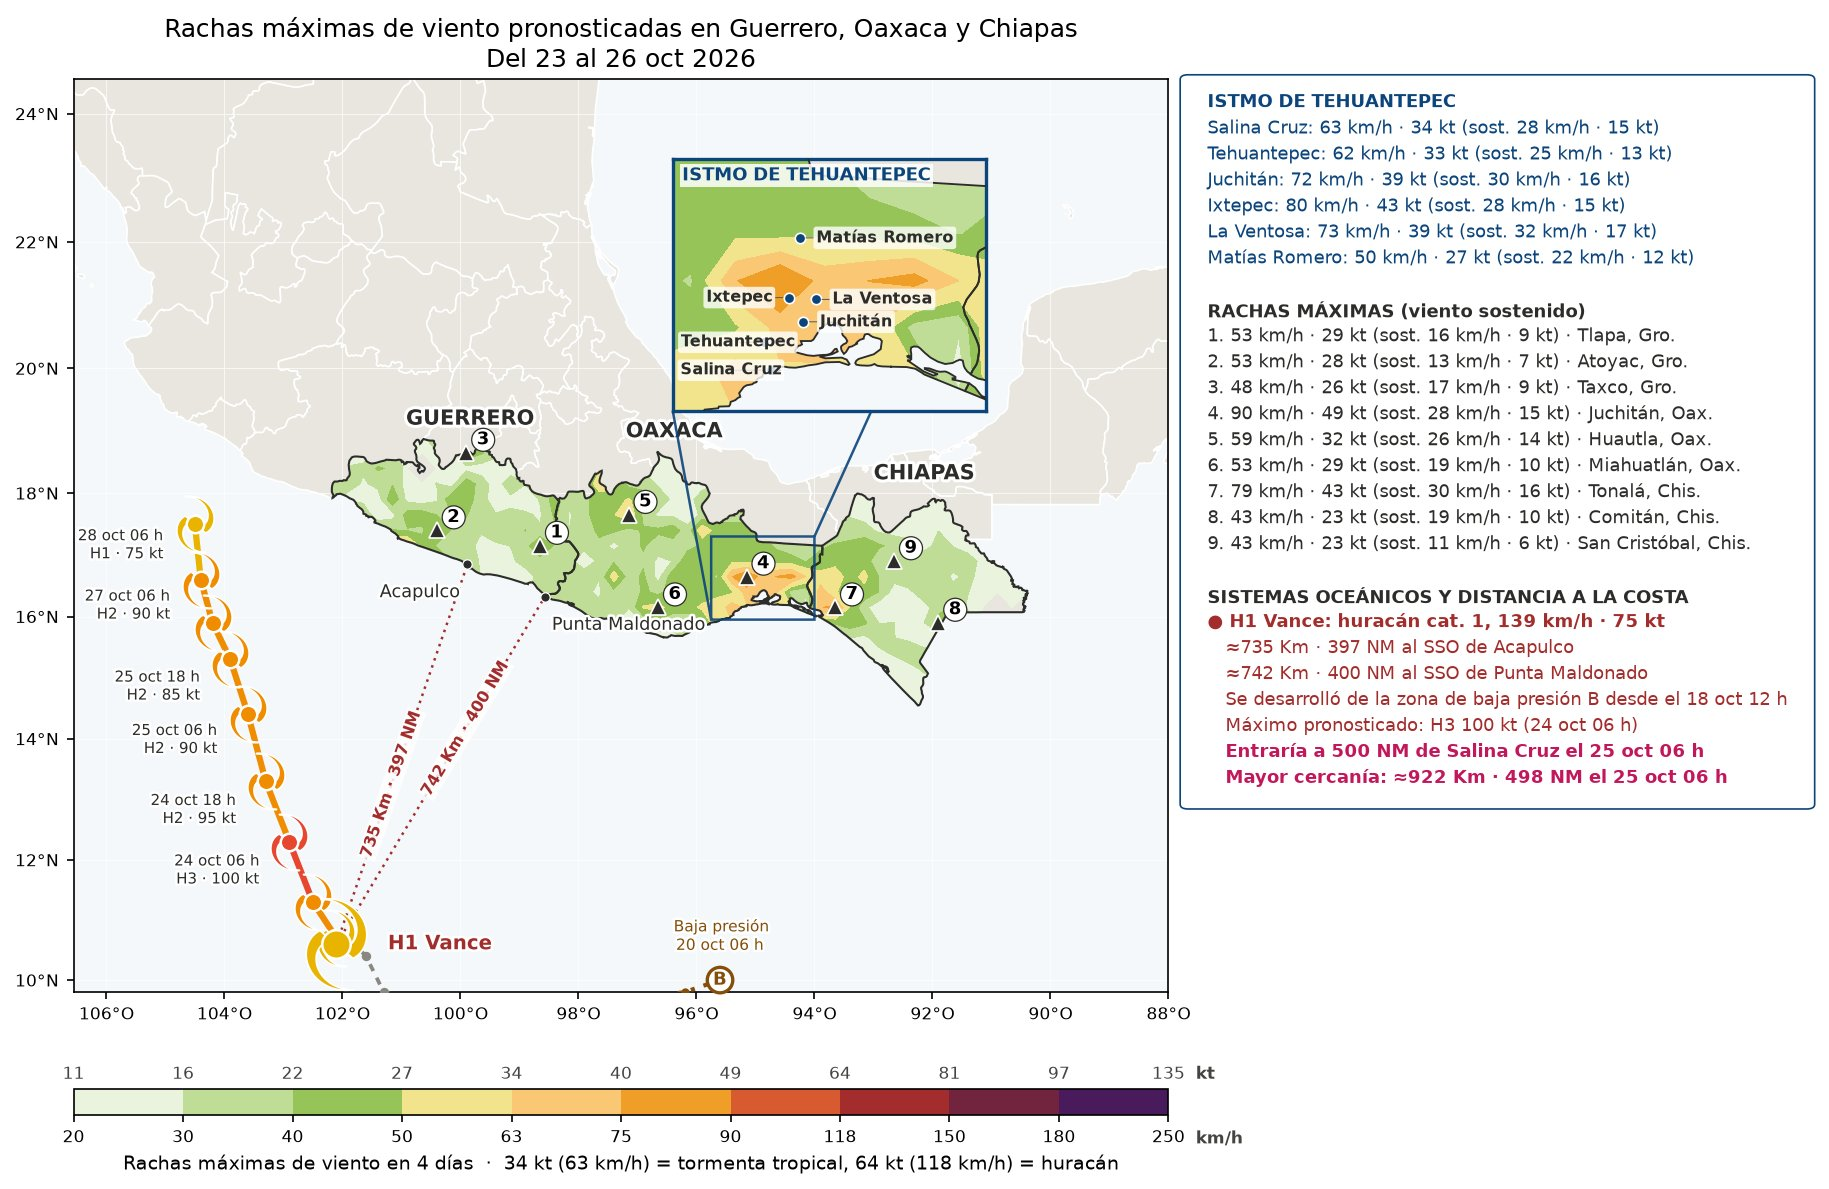
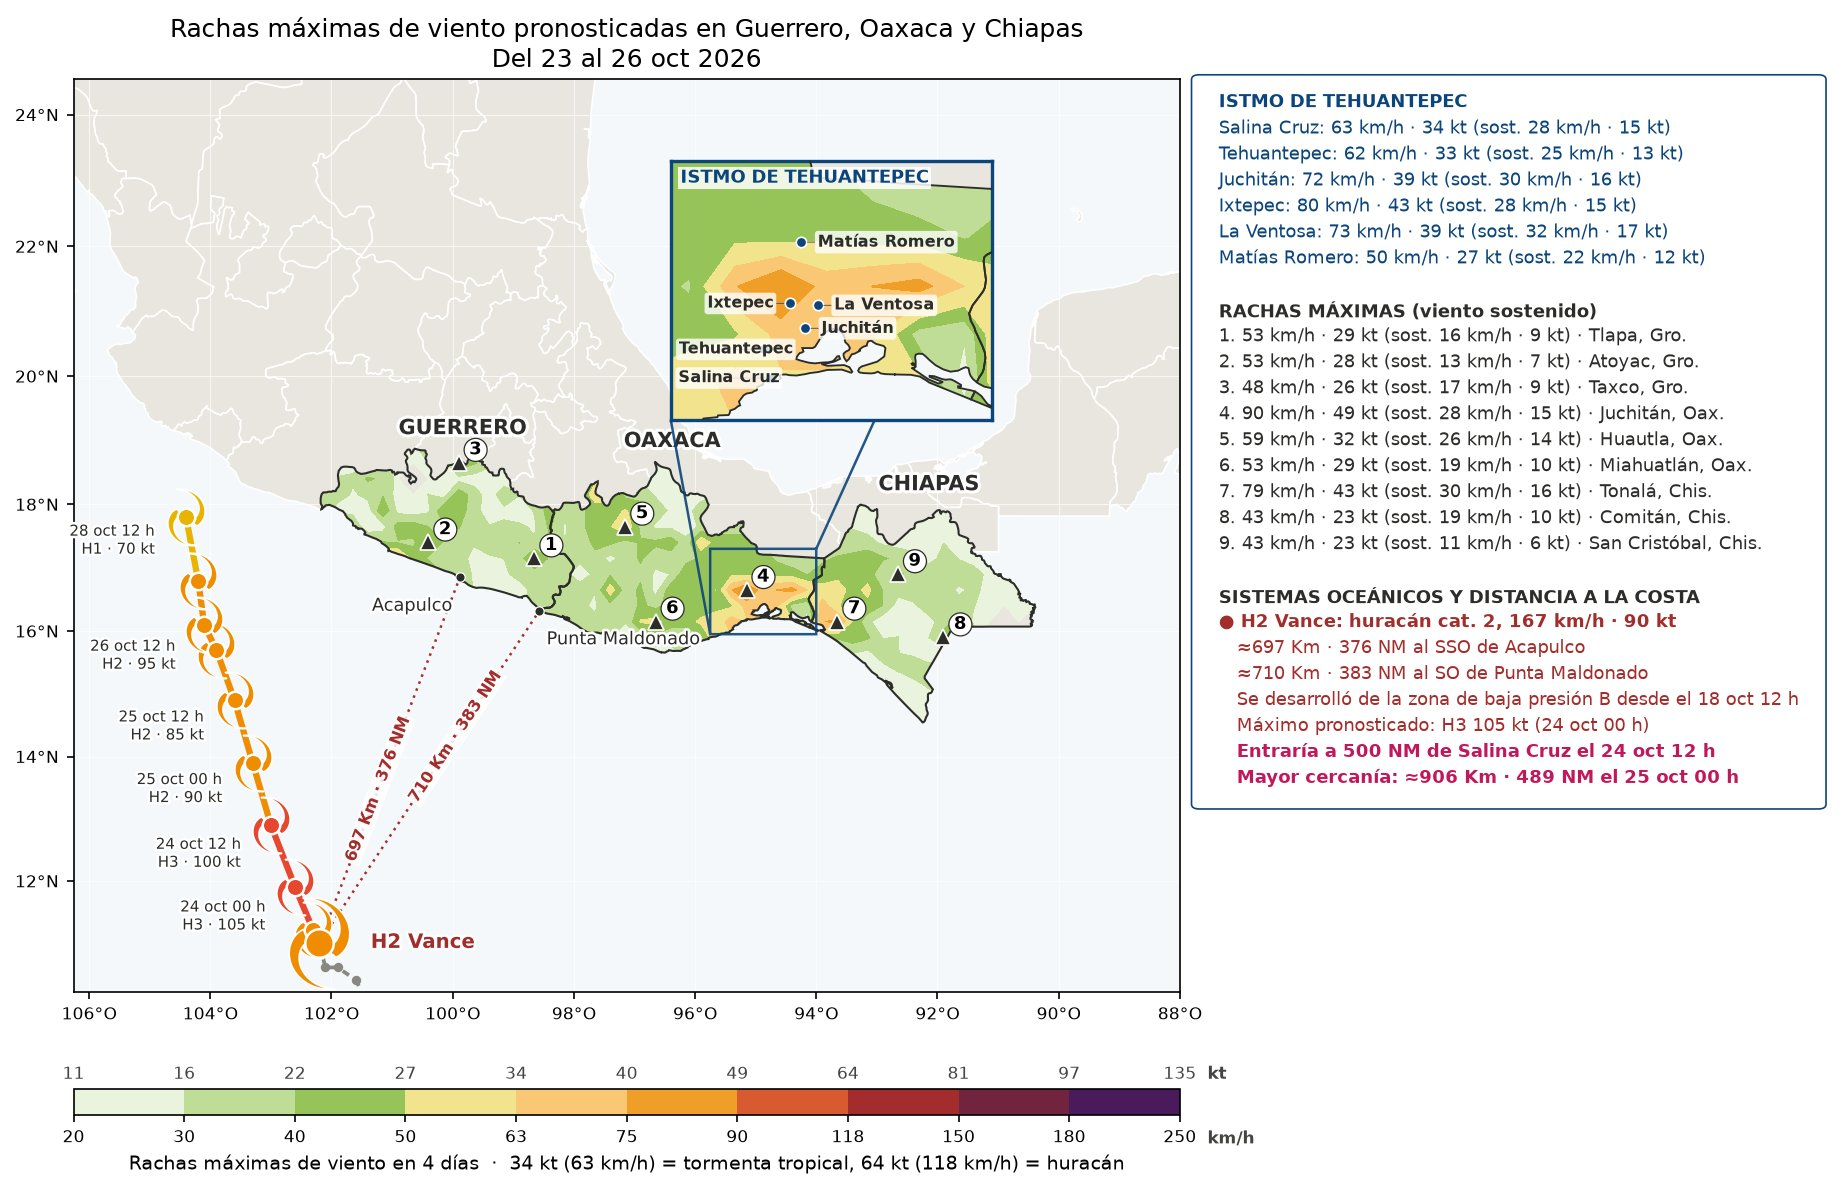
Monitor 23/10 14:47 (mapas nuevos)

diff --git a/index.html b/index.html
@@ -62,7 +62,7 @@ pre{overflow-x:auto;font-size:.75rem;background:var(--bg);padding:10px;border-ra
 <section class="t" id="sec_log"><details><summary>Registro (últimas líneas)</summary><pre id="log"></pre></details></section>
 </main>
 <div id="zoom"><img alt=""></div>
-<script id="datos" type="application/json">{"generado": "2026-10-23T14:07:08.624682", "ultima_revision": "2026-10-23T14:07:08.553040", "decision": "sin cambios", "ultima_imagen": "2026-10-23T09:30:17.759506", "motivo_imagen": "cambios acumulados en 3 h: nhc, modelo", "pendientes": [], "intervalo_h": 3, "resumen": {"ciclones": {"ep222026": {"nombre": "Vance", "kt": 80, "cat": "H1"}}, "zonas": []}, "historial": [{"fecha": "2026-10-21T12:47:14.163333", "motivo": "CAMBIO SIGNIFICATIVO: una zona de baja presión dejó de afectar la jurisdicción"}, {"fecha": "2026-10-21T14:37:14.543348", "motivo": "CAMBIO SIGNIFICATIVO: Vance cambió de categoría DT → TT"}, {"fecha": "2026-10-21T17:50:14.361831", "motivo": "cambios acumulados en 3 h: modelo"}, {"fecha": "2026-10-21T21:00:41.013700", "motivo": "cambios acumulados en 3 h: modelo"}, {"fecha": "2026-10-22T00:07:16.005030", "motivo": "cambios acumulados en 3 h: nhc"}, {"fecha": "2026-10-22T03:17:15.474786", "motivo": "cambios acumulados en 3 h: nhc"}, {"fecha": "2026-10-22T06:30:19.909550", "motivo": "cambios acumulados en 3 h: modelo"}, {"fecha": "2026-10-22T09:40:18.265752", "motivo": "cambios acumulados en 3 h: nhc, modelo"}, {"fecha": "2026-10-22T13:37:25.982695", "motivo": "manual (--forzar)"}, {"fecha": "2026-10-22T16:50:12.796107", "motivo": "cambios acumulados en 3 h: nhc, modelo"}, {"fecha": "2026-10-22T20:00:33.390363", "motivo": "cambios acumulados en 3 h: modelo"}, {"fecha": "2026-10-22T23:07:14.363150", "motivo": "cambios acumulados en 3 h: nhc"}, {"fecha": "2026-10-23T03:07:13.407994", "motivo": "CAMBIO SIGNIFICATIVO: Vance cambió de categoría TT → H1"}, {"fecha": "2026-10-23T06:24:52.066568", "motivo": "cambios acumulados en 3 h: modelo"}, {"fecha": "2026-10-23T09:30:17.759506", "motivo": "cambios acumulados en 3 h: nhc, modelo"}], "imagenes": {"lluvia": {"src": "lluvia.jpg?v=202610230930", "fecha": "2026-10-23T09:30:11.238298"}, "viento": {"src": "viento.jpg?v=202610230930", "fecha": "2026-10-23T09:30:15.987238"}}, "log": [], "umbral_av": 50, "umbral_mal": 110}</script>
+<script id="datos" type="application/json">{"generado": "2026-10-23T14:47:14.404938", "ultima_revision": "2026-10-23T14:47:14.365047", "decision": "imágenes generadas", "ultima_imagen": "2026-10-23T14:47:14.365047", "motivo_imagen": "CAMBIO SIGNIFICATIVO: Vance cambió de categoría H1 → H2", "pendientes": [], "intervalo_h": 3, "resumen": {"ciclones": {"ep222026": {"nombre": "Vance", "kt": 90, "cat": "H2"}}, "zonas": []}, "historial": [{"fecha": "2026-10-21T14:37:14.543348", "motivo": "CAMBIO SIGNIFICATIVO: Vance cambió de categoría DT → TT"}, {"fecha": "2026-10-21T17:50:14.361831", "motivo": "cambios acumulados en 3 h: modelo"}, {"fecha": "2026-10-21T21:00:41.013700", "motivo": "cambios acumulados en 3 h: modelo"}, {"fecha": "2026-10-22T00:07:16.005030", "motivo": "cambios acumulados en 3 h: nhc"}, {"fecha": "2026-10-22T03:17:15.474786", "motivo": "cambios acumulados en 3 h: nhc"}, {"fecha": "2026-10-22T06:30:19.909550", "motivo": "cambios acumulados en 3 h: modelo"}, {"fecha": "2026-10-22T09:40:18.265752", "motivo": "cambios acumulados en 3 h: nhc, modelo"}, {"fecha": "2026-10-22T13:37:25.982695", "motivo": "manual (--forzar)"}, {"fecha": "2026-10-22T16:50:12.796107", "motivo": "cambios acumulados en 3 h: nhc, modelo"}, {"fecha": "2026-10-22T20:00:33.390363", "motivo": "cambios acumulados en 3 h: modelo"}, {"fecha": "2026-10-22T23:07:14.363150", "motivo": "cambios acumulados en 3 h: nhc"}, {"fecha": "2026-10-23T03:07:13.407994", "motivo": "CAMBIO SIGNIFICATIVO: Vance cambió de categoría TT → H1"}, {"fecha": "2026-10-23T06:24:52.066568", "motivo": "cambios acumulados en 3 h: modelo"}, {"fecha": "2026-10-23T09:30:17.759506", "motivo": "cambios acumulados en 3 h: nhc, modelo"}, {"fecha": "2026-10-23T14:47:14.365047", "motivo": "CAMBIO SIGNIFICATIVO: Vance cambió de categoría H1 → H2"}], "imagenes": {"lluvia": {"src": "lluvia.jpg?v=202610231447", "fecha": "2026-10-23T14:47:08.052904"}, "viento": {"src": "viento.jpg?v=202610231447", "fecha": "2026-10-23T14:47:12.586650"}}, "log": [], "umbral_av": 50, "umbral_mal": 110}</script>
 <script>
 const D = JSON.parse(document.getElementById("datos").textContent);
 const $ = id => document.getElementById(id);
